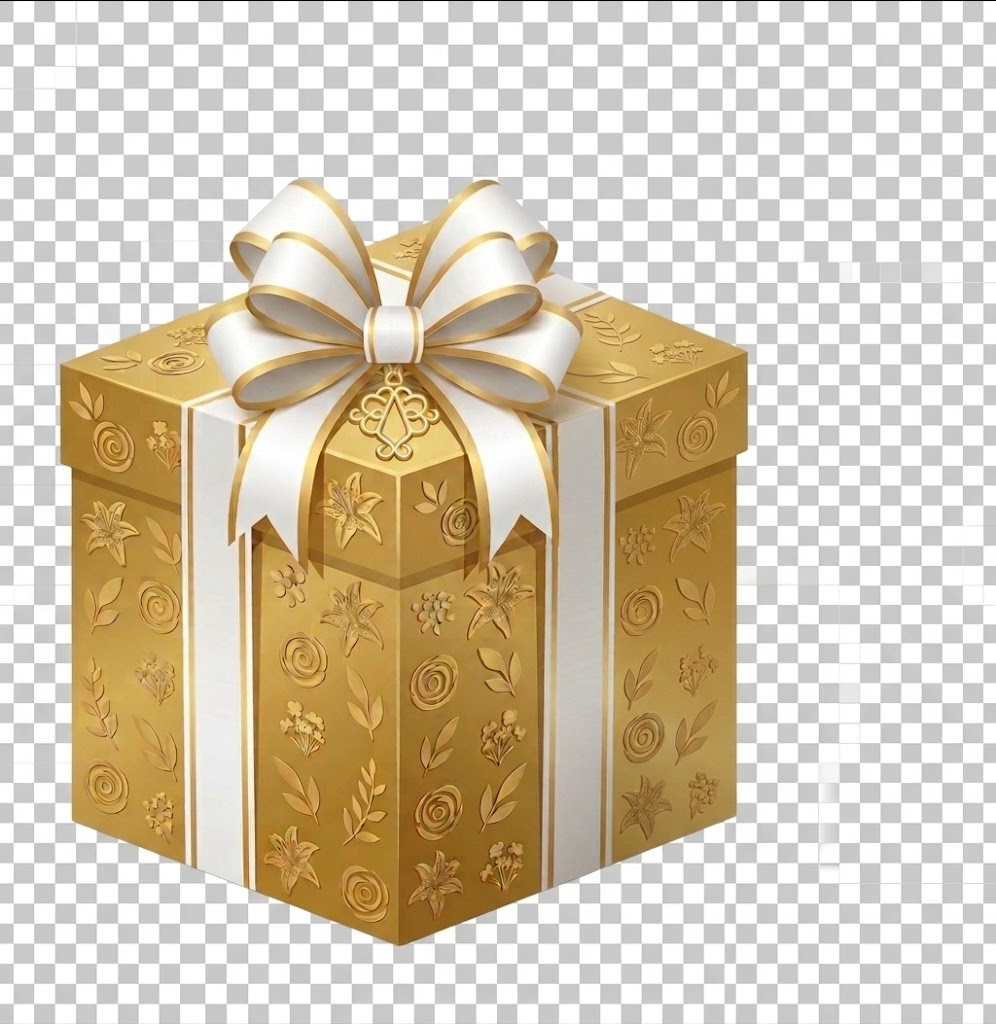
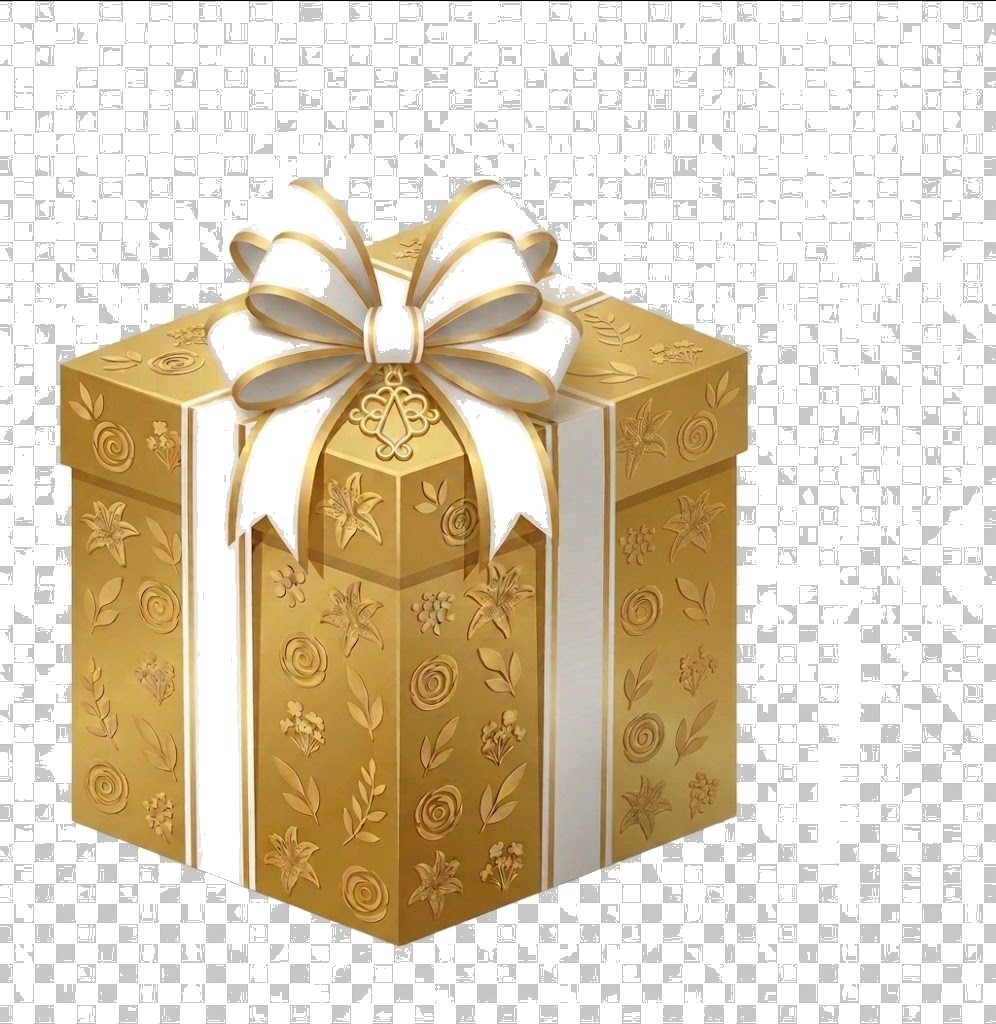
Fix duplicate HTML blocks, restore emojis perfectly, and remove fake checkerboard background from images

diff --git a/script.js b/script.js
@@ -3,7 +3,7 @@ if (!sessionStorage.getItem('isUnlocked')) {
   document.documentElement.style.overflow = 'hidden';
   const overlay = document.createElement('div');
   overlay.id = 'pinOverlay';
-  overlay.innerHTML = `
+  overlay.innerHTML = \`
     <style>
       #pinOverlay {
         position: fixed; top: 0; left: 0; width: 100vw; height: 100vh;
@@ -25,27 +25,21 @@ if (!sessionStorage.getItem('isUnlocked')) {
       .key.del { font-size: 20px; font-weight: 500; border: none; background: transparent; letter-spacing: 1px;}
       
       #giftScreen { display: none; text-align: center; animation: fadeIn 1s forwards; }
-      .gift-box { font-size: 130px; cursor: pointer; animation: bounce 2s infinite; margin: 40px; transition: 0.3s; filter: drop-shadow(0 0 20px rgba(255,255,255,0.3)); }
-      .gift-box:hover { transform: scale(1.15) rotate(5deg); }
+      .gift-box { cursor: pointer; animation: bounce 2s infinite; margin: 40px; transition: 0.3s; filter: drop-shadow(0 0 20px rgba(255,255,255,0.2)); }
+      .gift-box:hover { transform: scale(1.1) rotate(5deg); }
       
       #bouquetScreen { display: none; text-align: center; animation: fadeIn 1s forwards; }
-      .bouquet { font-size: 180px; margin: 30px; animation: popUp 1.2s cubic-bezier(0.175, 0.885, 0.32, 1.275); filter: drop-shadow(0 0 30px rgba(255,105,180,0.5)); }
-      .enter-btn { margin-top: 40px; padding: 18px 50px; border-radius: 40px; border: none; 
-                   background: linear-gradient(135deg, #ff4d4d, #ff758c); color: white; font-size: 22px; font-family: 'Dancing Script', cursive; cursor: pointer; 
+      .bouquet { margin: 30px; animation: popUp 1.2s cubic-bezier(0.175, 0.885, 0.32, 1.275); filter: drop-shadow(0 0 30px rgba(255,105,180,0.4)); }
+      .enter-btn { margin-top: 30px; padding: 15px 40px; border-radius: 40px; border: none; 
+                   background: linear-gradient(135deg, #ff4d4d, #ff758c); color: white; font-size: 20px; font-family: 'Dancing Script', cursive; cursor: pointer; 
                    transition: 0.3s; box-shadow: 0 10px 30px rgba(255, 77, 77, 0.4); }
       .enter-btn:hover { transform: scale(1.05) translateY(-3px); box-shadow: 0 15px 40px rgba(255, 77, 77, 0.6); }
 
       @keyframes fadeIn { from { opacity: 0; } to { opacity: 1; } }
-      @keyframes bounce { 0%, 20%, 50%, 80%, 100% {transform: translateY(0);} 40% {transform: translateY(-30px);} 60% {transform: translateY(-15px);} }
+      @keyframes bounce { 0%, 20%, 50%, 80%, 100% {transform: translateY(0);} 40% {transform: translateY(-20px);} 60% {transform: translateY(-10px);} }
       @keyframes popUp { from { transform: scale(0) rotate(-20deg) translateY(50px); opacity: 0; } to { transform: scale(1) rotate(0) translateY(0); opacity: 1; } }
       @keyframes shake { 0%, 100% {transform: translateX(0);} 25% {transform: translateX(-15px);} 75% {transform: translateX(15px);} }
-    
-      @keyframes float {
-        0% { transform: translateY(0px) rotate(0deg); }
-        50% { transform: translateY(-15px) rotate(2deg); }
-        100% { transform: translateY(0px) rotate(0deg); }
-      }
-
+      @keyframes float { 0% { transform: translateY(0px) rotate(0deg); } 50% { transform: translateY(-15px) rotate(2deg); } 100% { transform: translateY(0px) rotate(0deg); } }
     </style>
 
     <!-- PIN Screen -->
@@ -70,23 +64,18 @@ if (!sessionStorage.getItem('isUnlocked')) {
     <div id="giftScreen">
       <h2 style="font-family: 'Dancing Script', cursive; font-size: 45px; color: #ffb3b3;">PIN Benar! ??</h2>
       <p style="font-size: 18px; color: #eee; margin-top: 10px;">Ada hadiah kecil buat kamu...</p>
-      <div class="gift-box" id="giftBox"><img src="assets/gift.png" alt="Gift" style="width: 220px; height: auto; border-radius: 20px; mix-blend-mode: normal;"></div>
-      <p style="color: #aaa; font-size: 14px; margin-top: -10px;">(Tap kadonya)</p>
-    </div>
+      <div class="gift-box" id="giftBox"><img src="assets/gift.png" alt="Gift" style="width: 220px; height: auto;"></div>
       <p style="color: #aaa; font-size: 14px; margin-top: -10px;">(Tap kadonya)</p>
     </div>
 
     <!-- Bouquet Screen -->
     <div id="bouquetScreen">
       <h2 style="font-family: 'Dancing Script', cursive; font-size: 48px; color: #ff758c;">Virtual Bouquet For You ??</h2>
-      <div class="bouquet"><img src="assets/bouquet.png" alt="Bouquet" style="width: 300px; height: auto; border-radius: 20px; mix-blend-mode: normal; animation: float 3s ease-in-out infinite;"></div>
+      <div class="bouquet"><img src="assets/bouquet.png" alt="Bouquet" style="width: 300px; height: auto; animation: float 3s ease-in-out infinite;"></div>
       <p style="font-size: 18px; color: #fff; max-width: 80%; line-height: 1.6; margin: 15px auto;">Bunga virtual ini ngga akan pernah layu, sama kayak sayang aku ke kamu. Selamat Anniversary ya, cintaku! ??</p>
       <button class="enter-btn" id="enterBtn">Buka Website</button>
     </div>
-      <p style="font-size: 18px; color: #fff; max-width: 80%; line-height: 1.6; margin: 0 auto;">Bunga virtual ini ngga akan pernah layu, sama kayak sayang aku ke kamu. Selamat Anniversary ya, cintaku! ??</p>
-      <button class="enter-btn" id="enterBtn">Buka Website</button>
-    </div>
-  `;
+  \`;
   document.documentElement.appendChild(overlay);
 
   // Logic
@@ -199,14 +188,14 @@ const $$ = (selector) => document.querySelectorAll(selector);
 const glow = $('.cursor-glow');
 document.addEventListener('mousemove', (event) => {
   if (!glow) return;
-  glow.style.left = `${event.clientX}px`;
-  glow.style.top = `${event.clientY}px`;
+  glow.style.left = \`${event.clientX}px\`;
+  glow.style.top = \`${event.clientY}px\`;
 });
 
 const musicBtn = $('#musicBtn');
 musicBtn?.addEventListener('click', () => {
   musicBtn.classList.toggle('playing');
-  musicBtn.textContent = musicBtn.classList.contains('playing') ? '♫' : '♪';
+  musicBtn.textContent = musicBtn.classList.contains('playing') ? '?' : '?';
 });
 
 const birthdayDate = new Date('2027-05-24T00:00:00').getTime();
@@ -284,12 +273,12 @@ const reasons = [
 const reasonGrid = $('#reasonGrid');
 if (reasonGrid) {
   const imageFolder = reasonGrid.dataset.imageFolder || 'assets';
-  const reasonImages = Array.from({ length: 50 }, (_, index) => `${imageFolder}/${index + 1}.jpg`);
+  const reasonImages = Array.from({ length: 50 }, (_, index) => \`${imageFolder}/${index + 1}.jpg\`);
 
   reasonGrid.innerHTML = reasons.slice(0, 50)
       .map((reason, index) => {
         const image = reasonImages[index % reasonImages.length];
-        let cardHTML = `
+        let cardHTML = \`
         <article class="reason-card reveal" tabindex="0">
           <div class="reason-inner">
             <div class="reason-front">
@@ -302,18 +291,18 @@ if (reasonGrid) {
               </div>
             </div>
           </div>
-        </article>`;
+        </article>\`;
         
         if (index === 49) {
-          cardHTML += `
+          cardHTML += \`
           <article class="reason-card reveal" style="grid-column: 1 / -1; grid-row: span 2; display: flex; border-radius: 20px; overflow: hidden; box-shadow: 0 15px 40px rgba(0,0,0,0.25); position: relative; z-index: 10; min-height: 550px; margin: 30px 0;">
             <video autoplay muted loop playsinline style="width: 100%; height: 100%; object-fit: cover; position: absolute; top: 0; left: 0;">
               <source src="assets/vidio_baru.mp4" type="video/mp4">
             </video>
             <div style="position: absolute; bottom: 0; left: 0; right: 0; background: linear-gradient(to top, rgba(0,0,0,0.8), transparent); padding: 50px 15px 25px; text-align: center; color: white; font-family: 'Dancing Script', cursive; font-size: 42px; z-index: 2;">
-              Our Romantic Memories 💕
+              Our Romantic Memories ? 
             </div>
-          </article>`;
+          </article>\`;
       }
       return cardHTML;
     })
@@ -329,7 +318,7 @@ const letterText = `Hai Miwmiw sayang...
 Jujur, ketemu sama kamu itu hal paling indah yang pernah terjadi di hidupku. Cuma dengan ada di dekatmu, atau sekadar liat kamu senyum aja, duniaku rasanya jadi jauh lebih tenang dan bahagia.
 Di hari anniversary kita yang ke-2 ini, aku cuma mau kamu tau kalau aku sayang banget sama kamu. Bukan cuma hari ini aja, tapi setiap detik, setiap hari. Dua tahun bareng kamu rasanya luar biasa banget, dan aku selalu bersyukur kamu yang nemenin hari-hariku.
 Harapanku buat kita... semoga kita selalu bisa sama-sama terus, saling ngerti, dan nggak pernah capek buat saling jatuh cinta lagi dan lagi. Semoga ke depannya kita selalu nemuin banyak kebahagiaan, pagi yang tenang, dan momen-momen kecil yang bikin kita senyum berdua.
-Selamat Anniversary yang ke-2 ya, sayang. Kamu itu bener-bener keajaiban buat aku, dan kamu pantes dapet semua cinta di dunia ini di setiap langkah cerita kita nanti. I Love You so much 🫶`;
+Selamat Anniversary yang ke-2 ya, sayang. Kamu itu bener-bener keajaiban buat aku, dan kamu pantes dapet semua cinta di dunia ini di setiap langkah cerita kita nanti. I Love You so much ??`;
 let hasTypedLetter = false;
 
 envelope?.addEventListener('click', () => {
@@ -359,23 +348,23 @@ cutCakeBtn?.addEventListener('click', async () => {
   cakeAnimationStarted = true;
   cutCakeBtn.disabled = true;
 
-  cakeStageText.textContent = 'blowing the candles... 🌬';
+  cakeStageText.textContent = 'blowing the candles... ?????';
   cutCakeBtn.textContent = 'Blowing Candles...';
   cake.classList.add('blow');
   await wait(1500);
 
-  cakeStageText.textContent = ' cake is cutting 🔪';
+  cakeStageText.textContent = ' cake is cutting ??';
   cutCakeBtn.textContent = '';
   cake.classList.add('knife-in');
   await wait(1200);
 
-  cakeStageText.textContent = ' into a slice... 🍰';
+  cakeStageText.textContent = ' into a slice... ??';
   cutCakeBtn.textContent = 'Cutting Slice...';
   cake.classList.add('sliced');
   await wait(900);
 
-  cakeStageText.textContent = 'first slice for my Miwmiw 🎉';
-  cutCakeBtn.textContent = 'Cake Cut 🎉';
+  cakeStageText.textContent = 'first slice for my Miwmiw ??';
+  cutCakeBtn.textContent = 'Cake Cut ??';
 
   if (typeof confetti === 'function') {
     confetti({ particleCount: 280, spread: 115, origin: { y: 0.62 } });
@@ -394,7 +383,7 @@ document.addEventListener('click', (e) => {
 
 
 // Funny & Romantic Click Burst Effect
-const burstEmojis = ['??', '??', '??', '??', '??', '??', '??', '??', '?'];
+const burstEmojis = ['??', '??', '??', '??', '??', '??', '??', '?', '??'];
 document.addEventListener('click', (e) => {
   // Don't burst on the PIN screen input to avoid blocking the view
   if (e.target.id === 'pinInput') return;
@@ -416,11 +405,10 @@ document.addEventListener('click', (e) => {
     setTimeout(() => {
       const angle = Math.random() * Math.PI * 2;
       const velocity = 40 + Math.random() * 80;
-      emoji.style.transform = `translate(${Math.cos(angle) * velocity}px, ${Math.sin(angle) * velocity}px) rotate(${Math.random() * 360}deg) scale(0.3)`;
+      emoji.style.transform = \`translate(${Math.cos(angle) * velocity}px, ${Math.sin(angle) * velocity}px) rotate(${Math.random() * 360}deg) scale(0.3)\`;
       emoji.style.opacity = '0';
     }, 10);
     
     setTimeout(() => emoji.remove(), 800);
   }
 });
-
